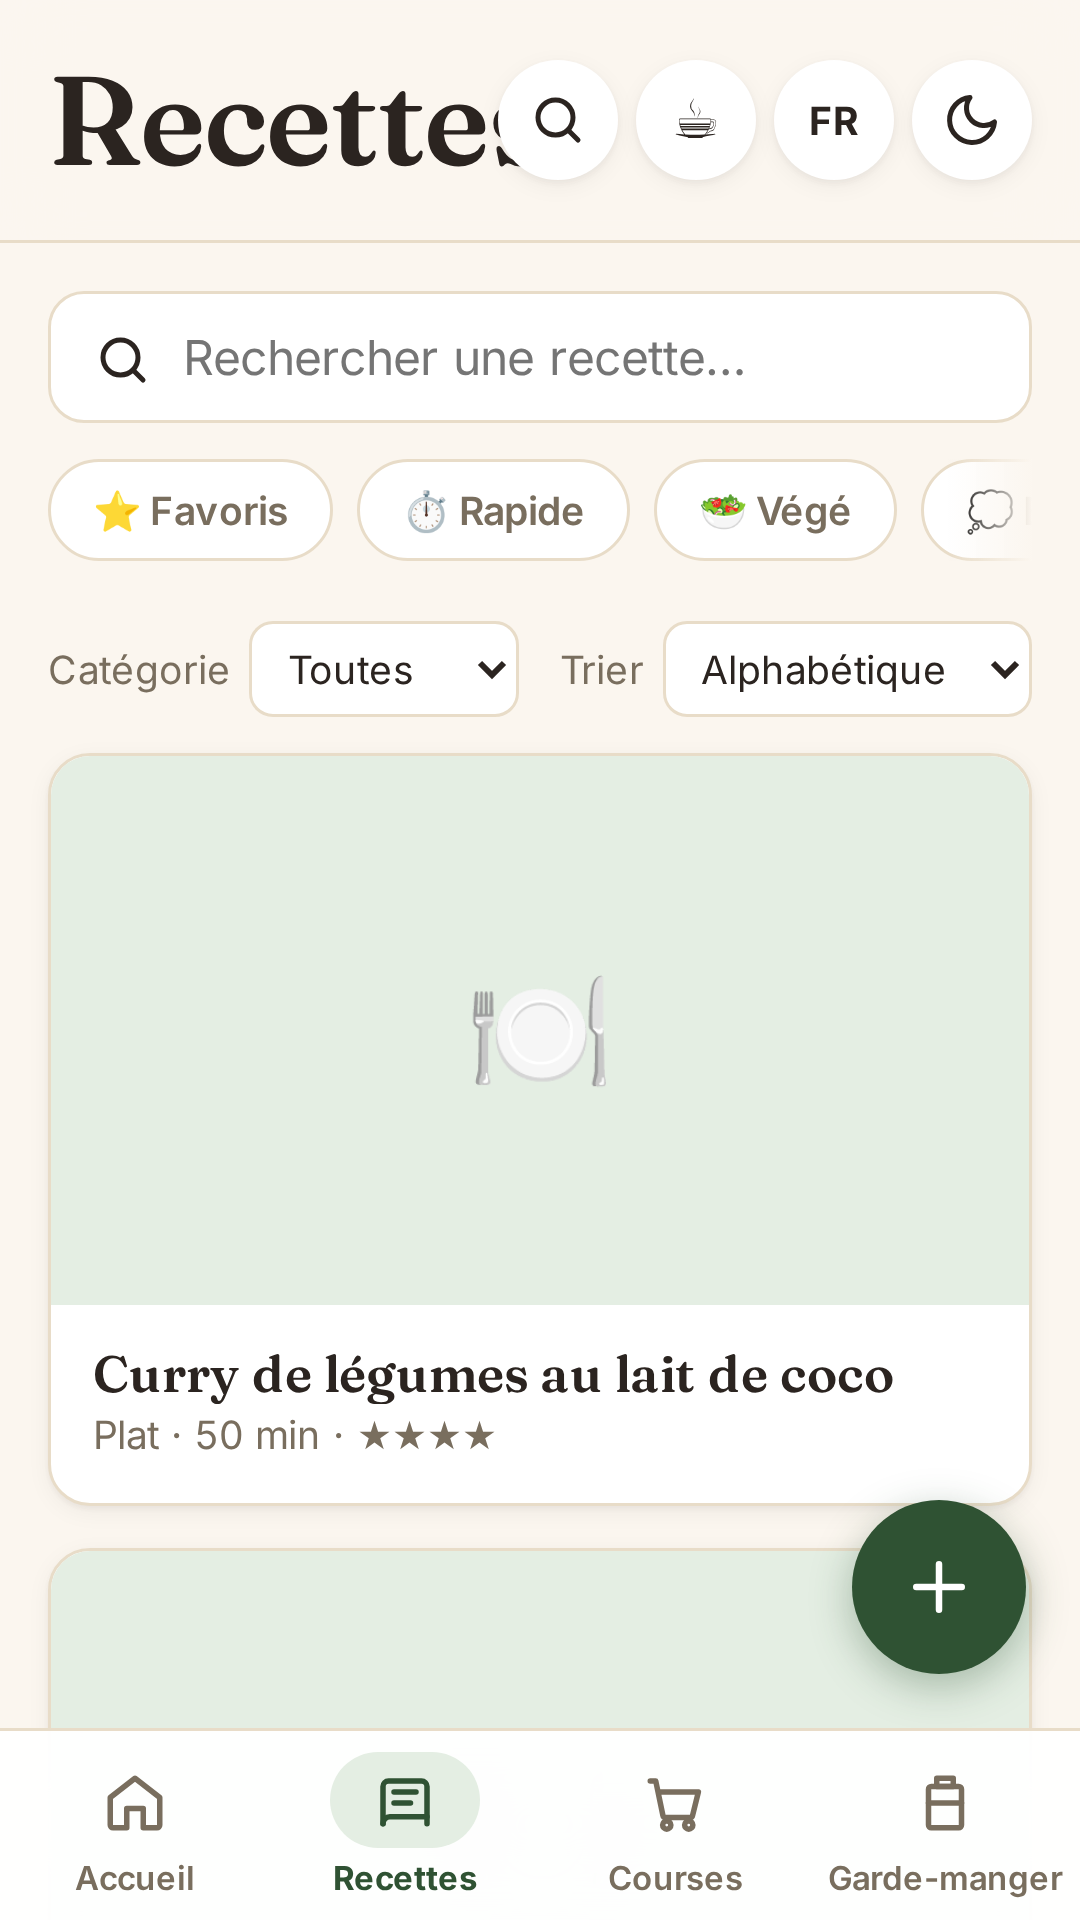
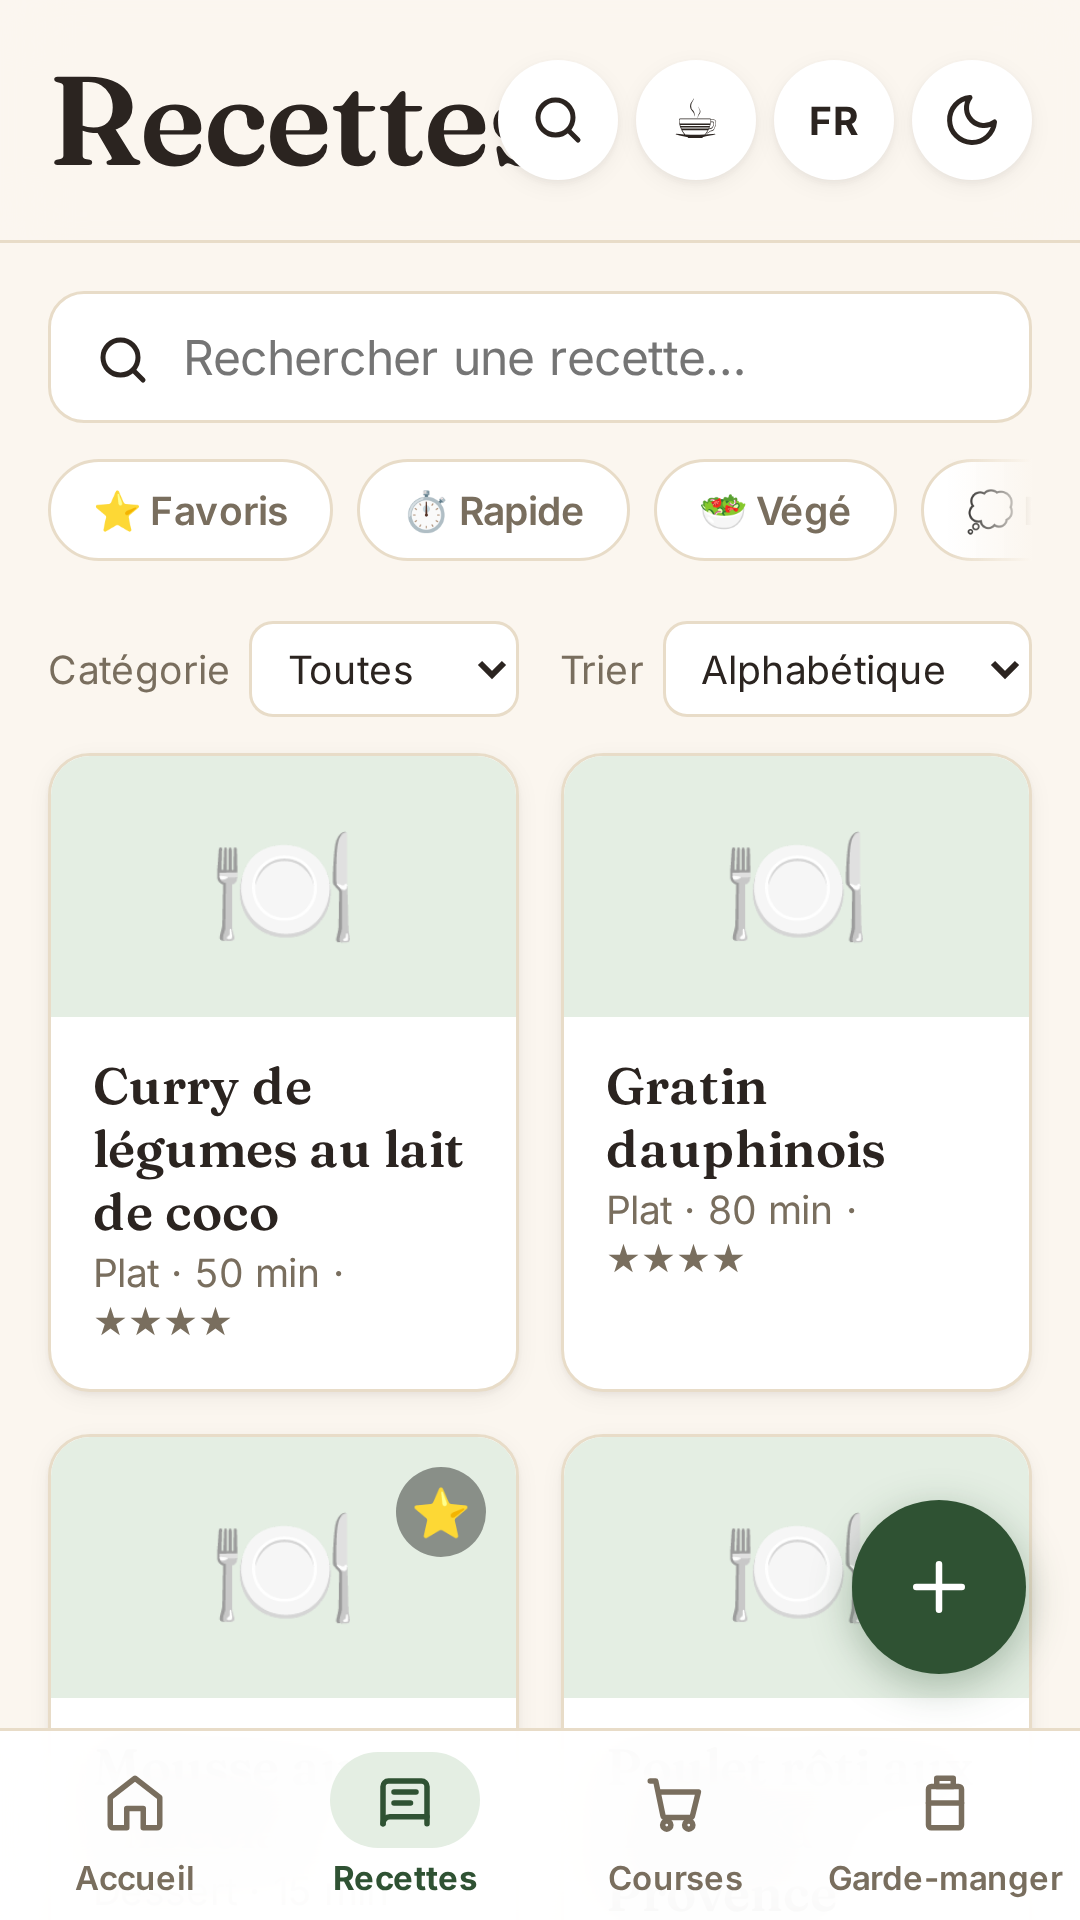
Grille 2 colonnes pour la liste de recettes dès le mobile
Retour direct de l'utilisateur avec une capture d'écran de référence :
la grille 2 colonnes (point 109) ne s'activait qu'à partir de 720px de
large, donc jamais sur un vrai téléphone — .recipe-list passe maintenant
en grille 2 colonnes fixes dès le mobile, la media query à 720px ne
faisant plus que changer le nombre de colonnes pour un écran large.

Met à jour le test existant qui vérifiait l'ancien comportement (colonne
unique sur mobile), désormais volontairement changé, et régénère la
capture d'écran du manifeste concernée.

Claude-Session: https://claude.ai/code/session_01MysKTnGDxc7M3cnYjQJeSE

diff --git a/styles.css b/styles.css
@@ -372,12 +372,18 @@ a { color: inherit; }
 .chip.active { background: var(--primary-strong); border-color: var(--primary-strong); color: #fff; }
 
 /* ---------- Liste de recettes ---------- */
-.recipe-list { display: flex; flex-direction: column; gap: 14px; }
-/* Sur un écran large, affiche 2 lignes de recette côte à côte plutôt
-   qu'une seule colonne étroite — l'écran lui-même reste plafonné à
-   640px (voir .screen), donc jamais plus de 2 colonnes en pratique. */
+/* Grille 2 colonnes dès le mobile (demande explicite de l'utilisateur,
+   avec capture d'écran de référence) — la version précédente ne
+   passait en grille qu'à partir de 720px (tablette), ce qui rendait
+   les cartes photo introduites par la "vague visuelle 1" invisibles
+   en 2 colonnes sur un téléphone. */
+.recipe-list { display: grid; grid-template-columns: repeat(2, 1fr); gap: 14px; }
+/* Sur un écran large, plus de colonnes proportionnellement à la place
+   disponible plutôt qu'un nombre fixe de 2 — l'écran lui-même reste
+   plafonné à 640px (voir .screen), donc jamais plus de 2-3 colonnes en
+   pratique même sur tablette/desktop. */
 @media (min-width: 720px) {
-  .recipe-list { display: grid; grid-template-columns: repeat(auto-fill, minmax(240px, 1fr)); gap: 14px; }
+  .recipe-list { grid-template-columns: repeat(auto-fill, minmax(240px, 1fr)); }
 }
 .recipe-row {
   display: flex;

diff --git a/app.js b/app.js
@@ -12064,7 +12064,7 @@ function renderStatistics() {
 // sw.js — affiché sur l'écran de sauvegarde pour vérifier facilement,
 // sans deviner, que la dernière version est bien celle actuellement
 // utilisée.
-const APP_VERSION = 254;
+const APP_VERSION = 255;
 
 // Affiche un état de secours minimal quand init() échoue avant son
 // premier render() — sans lui, un IndexedDB indisponible (navigation

diff --git a/sw.js b/sw.js
@@ -11,7 +11,7 @@
 // application, donc caches.keys() y voit potentiellement les caches
 // de tout le monde sur ce domaine.
 const CACHE_PREFIX = "mes-recettes-cache-";
-const CACHE_NAME = `${CACHE_PREFIX}v254`;
+const CACHE_NAME = `${CACHE_PREFIX}v255`;
 const FILES_TO_CACHE = [
   "./",
   "./index.html",

diff --git a/tests/test_pantry_delete_undo_and_polish.py b/tests/test_pantry_delete_undo_and_polish.py
@@ -208,7 +208,13 @@ def main():
         check("Le bouton + est masqué pendant l'affichage du snackbar (ne le chevauche plus)", fab_during == "none", fab_during)
         context4.close()
 
-        print("\n=== Liste de recettes : grille à 2 colonnes sur un écran large, colonne unique sur mobile ===\n")
+        print("\n=== Liste de recettes : grille à 2 colonnes dès le mobile, plus de colonnes sur écran large ===\n")
+        # Comportement volontairement changé depuis (voir TESTS_NON_REGRESSION.md,
+        # point "grille 2 colonnes sur mobile") : demande explicite de
+        # l'utilisateur, capture d'écran de référence à l'appui — la grille
+        # 2 colonnes ne se limite plus aux écrans ≥720px, elle s'applique
+        # aussi au mobile, où les cartes photo de la "vague visuelle 1"
+        # étaient sinon quasi invisibles en 2 colonnes.
         context5 = browser.new_context()
         page5 = context5.new_page()
         errors5 = []
@@ -222,6 +228,7 @@ def main():
             async () => {
                 for (const r of await storeAll('recipes')) await storeDelete('recipes', r.id);
                 await storePut('recipes', { id: 'r1', name: 'Tarte', category: 'Dessert', ingredients: [] });
+                await storePut('recipes', { id: 'r2', name: 'Ratatouille', category: 'Plat', ingredients: [] });
                 state.recipes = await storeAll('recipes');
                 state.screen = 'recipes';
                 render();
@@ -230,11 +237,17 @@ def main():
         )
         page5.wait_for_timeout(300)
         display_mobile = page5.evaluate("() => getComputedStyle(document.querySelector('.recipe-list')).display")
+        rows = page5.query_selector_all(".recipe-list .card.recipe-row")
+        boxes_mobile = [r.bounding_box() for r in rows]
+        two_columns_mobile = len(boxes_mobile) == 2 and abs(boxes_mobile[0]["y"] - boxes_mobile[1]["y"]) < 2 and boxes_mobile[0]["x"] != boxes_mobile[1]["x"]
+        overflow_mobile = page5.evaluate("() => document.documentElement.scrollWidth > document.documentElement.clientWidth")
         page5.set_viewport_size({"width": 900, "height": 800})
         page5.wait_for_timeout(200)
         display_tablet = page5.evaluate("() => getComputedStyle(document.querySelector('.recipe-list')).display")
-        check("Sur mobile (390px), la liste reste en colonne unique (flex)", display_mobile == "flex", display_mobile)
-        check("Sur écran large (900px), la liste passe en grille", display_tablet == "grid", display_tablet)
+        check("Sur mobile (390px), la liste est bien en grille (pas flex)", display_mobile == "grid", display_mobile)
+        check("Sur mobile (390px), les 2 cartes sont côte à côte sur la même ligne (2 colonnes)", two_columns_mobile, str(boxes_mobile))
+        check("Sur mobile (390px), aucun débordement horizontal", not overflow_mobile, str(overflow_mobile))
+        check("Sur écran large (900px), la liste reste en grille", display_tablet == "grid", display_tablet)
         context5.close()
 
         errors_all = errors1 + errors2 + errors3 + errors4 + errors5

diff --git a/TESTS_NON_REGRESSION.md b/TESTS_NON_REGRESSION.md
@@ -7515,3 +7515,41 @@ d'écran manuelles clair/sombre + largeur tablette) :
 Suite de régression complète (40 scripts + corpus OCR) au vert.
 
 **Version testée** : v254
+
+### 112 — Grille 2 colonnes dès le mobile (pas seulement à partir de 720px)
+
+Retour direct de l'utilisateur avec une capture d'écran de référence (un
+mockup de l'appli en 2 colonnes sur téléphone) : la grille 2 colonnes
+introduite au point 109 ne se déclenchait qu'à partir de 720px de large
+(tablette) — sur un vrai téléphone, la liste de recettes restait donc en
+une seule colonne verticale, rendant les grandes cartes photo de la
+"vague visuelle 1" (point 111) moins spectaculaires que prévu tant
+qu'aucun écran large n'était utilisé.
+
+**Fait** : `.recipe-list` passe en grille 2 colonnes fixes
+(`grid-template-columns: repeat(2, 1fr)`) dès le mobile, sans condition
+de largeur d'écran. La media query à 720px ne fait plus que changer le
+NOMBRE de colonnes pour un écran large (`auto-fill, minmax(240px, 1fr)`,
+qui donne 2-3 colonnes selon la largeur disponible, l'écran restant de
+toute façon plafonné à 640px — voir `.screen`) plutôt que d'activer la
+grille elle-même.
+
+Ce changement s'applique à toutes les listes qui réutilisent
+`.recipe-list`/`.card.recipe-row` : la liste principale des recettes, la
+section "Favoris" de l'accueil, et la liste des menus — toutes gagnent la
+grille 2 colonnes de façon cohérente, sans code supplémentaire.
+
+**Vérifié** (capture d'écran à 360px et 390px, clair et sombre, voir
+aussi la mise à jour du test existant `test_pantry_delete_undo_and_polish.py`
+qui vérifiait auparavant l'ANCIEN comportement — colonne unique sur
+mobile — désormais volontairement changé) :
+- Sur mobile (360-390px), la liste de recettes affiche bien 2 cartes
+  côte à côte sur la même ligne, sans débordement horizontal, titres et
+  photos restent lisibles dans les deux thèmes.
+- Sur écran large (900px), la grille reste fonctionnelle (auto-fill).
+- Audit d'accessibilité (axe-core) toujours au vert (3 exécutions
+  consécutives).
+
+Suite de régression complète (40 scripts + corpus OCR) au vert.
+
+**Version testée** : v255

diff --git a/tests/README.md b/tests/README.md
@@ -358,7 +358,11 @@ Depuis, la structure sépare strictement :
   flottant masqué pendant l'affichage du bandeau (chevauchement visuel
   repéré sur une capture d'écran réelle) ; grille à 2 colonnes de la
   liste de recettes sur écran large (appliquée sur la vraie classe
-  `.recipe-list`, colonne unique conservée sur mobile).
+  `.recipe-list`). Son dernier cas ("colonne unique sur mobile") a été
+  mis à jour au point 112 (TESTS_NON_REGRESSION.md) : la grille 2
+  colonnes s'applique désormais aussi au mobile, sur demande explicite
+  de l'utilisateur — le test vérifie maintenant que 2 cartes sont bien
+  côte à côte à 390px, sans débordement horizontal.
 - `test_ui_icon_replacement.py` — suite au "patch graphique" demandé
   explicitement par l'utilisateur (voir TESTS_NON_REGRESSION.md point
   110) : les emoji de CHROME d'interface (navigation du bas, bouton
